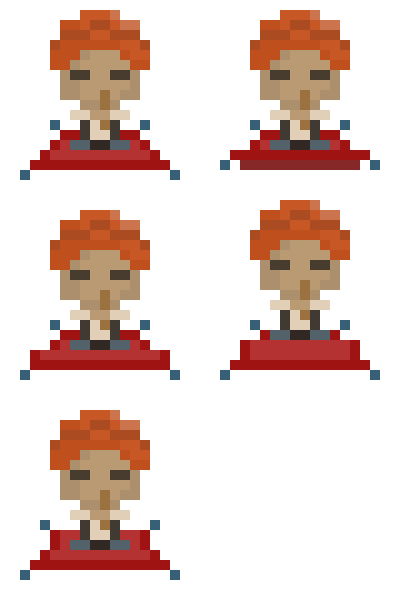
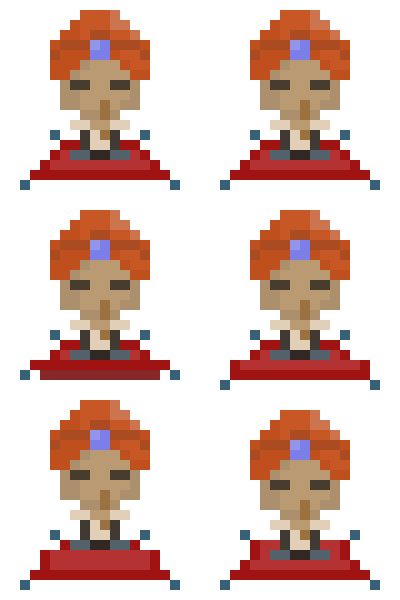
harder snakecharmer

diff --git a/src/snakecharmer.js b/src/snakecharmer.js
@@ -27,7 +27,7 @@ export class SnakeCharmer extends Phaser.Physics.Arcade.Sprite {
         this.scene.physics.add.existing(this)
         this.debugShowBody = false
         this.debugShowVelocity = false
-        this.setSize(100, 175)
+        this.setSize(120, 170)
         this.setScale(1)
         this.play('snakecharmer0')
         this.setCollideWorldBounds(true)
@@ -81,7 +81,9 @@ export class SnakeCharmer extends Phaser.Physics.Arcade.Sprite {
     }
 
     takeDamage(cause) {
+        
         this.health -= cause.damage
+        if (this.health == 20) this.duplicate()
         this.setTintFill(0xffffff)
         setTimeout(()=> {
             this.clearTint()
@@ -89,6 +91,9 @@ export class SnakeCharmer extends Phaser.Physics.Arcade.Sprite {
         cause.spentOn.push(this.name)
         if (this.health <= 0 ) {
             if(this.drop) this.scene.drop(this.x,this.y, this.drop)
+            this.scene.enemies.forEach(element => {
+                element.destroy()
+            });
             this.destroy()
         }
         setTimeout(() => {
@@ -98,5 +103,12 @@ export class SnakeCharmer extends Phaser.Physics.Arcade.Sprite {
         }, cause.swingTimer)
     }
 
-   
+    duplicate() {
+        let o =  new SnakeCharmer({scene:this.scene, x:this.x, y:this.y, key:"snakecharmer", name:"snakecharmer2"})
+        o.health = 1000;
+        o.create()
+        o.freeze = false
+        console.log(this.scene.enemies)
+        this.scene.enemies.push(o)
+    }
 }

diff --git a/src/snake.js b/src/snake.js
@@ -21,7 +21,7 @@ export class Snake extends Phaser.Physics.Arcade.Sprite {
         this.scene.physics.add.existing(this)
         this.debugShowBody = false
         this.debugShowVelocity = false
-        this.setSize(150, 50)
+        this.setSize(125, 50)
         this.setScale(1)
         this.play('snake0')
         this.rotation = this.x == 1920 ? Math.PI/2 : -Math.PI/2

diff --git a/src/GameScene.js b/src/GameScene.js
@@ -144,7 +144,7 @@ export class GameScene extends Phaser.Scene {
             this.loadNextWave = false
             this.waves.shift()
     
-            if ( this.waves.length  != 0) {
+            if (this.waves.length  != 0) {
                 setTimeout(()=>{
                     this.enemyCreate(this.waves[0])
                     this.loadNextWave = true
